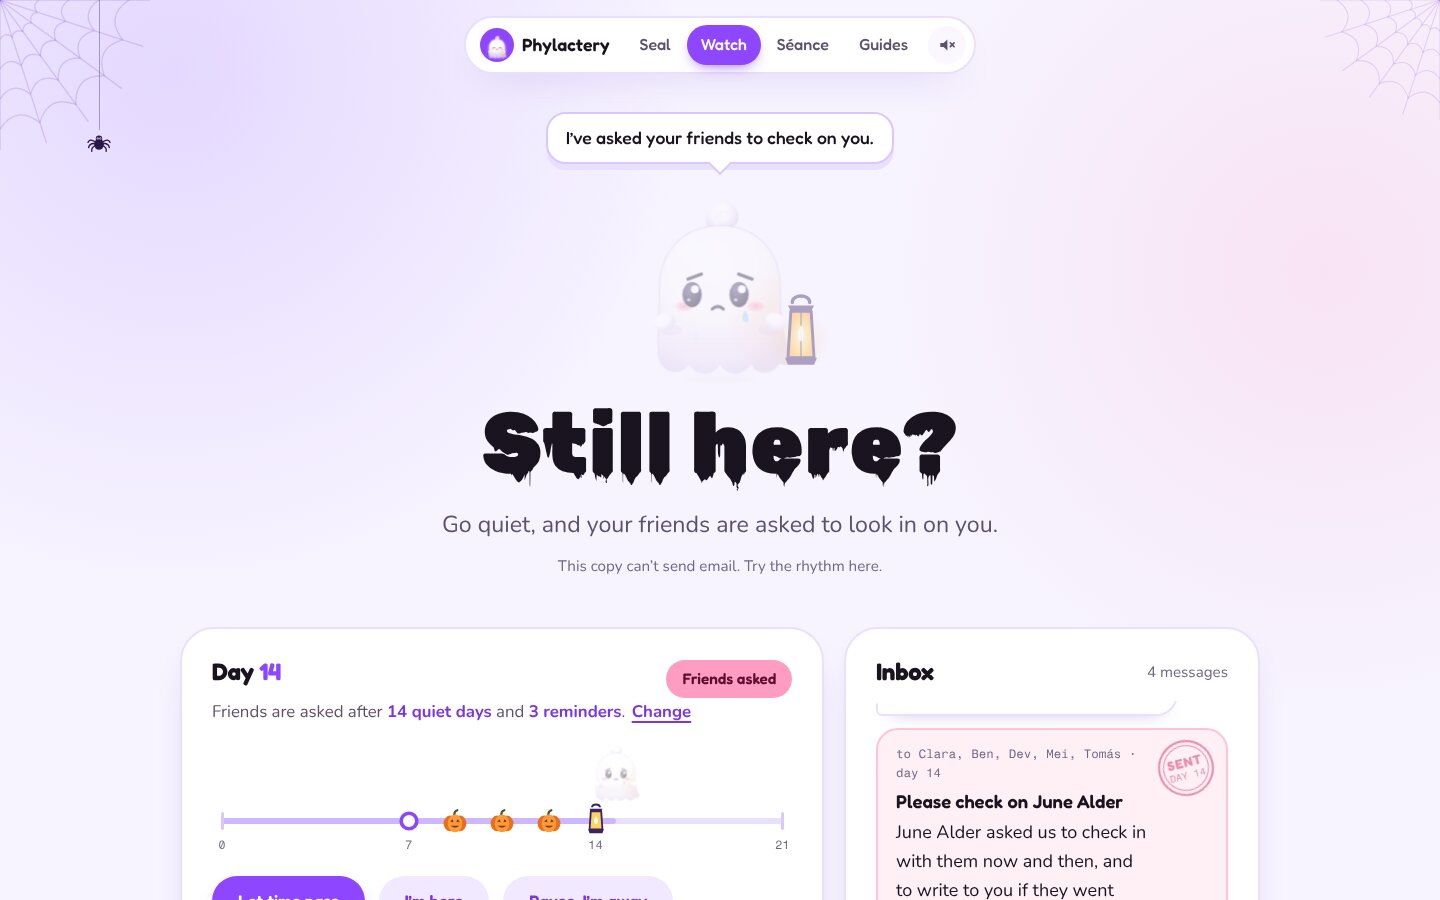
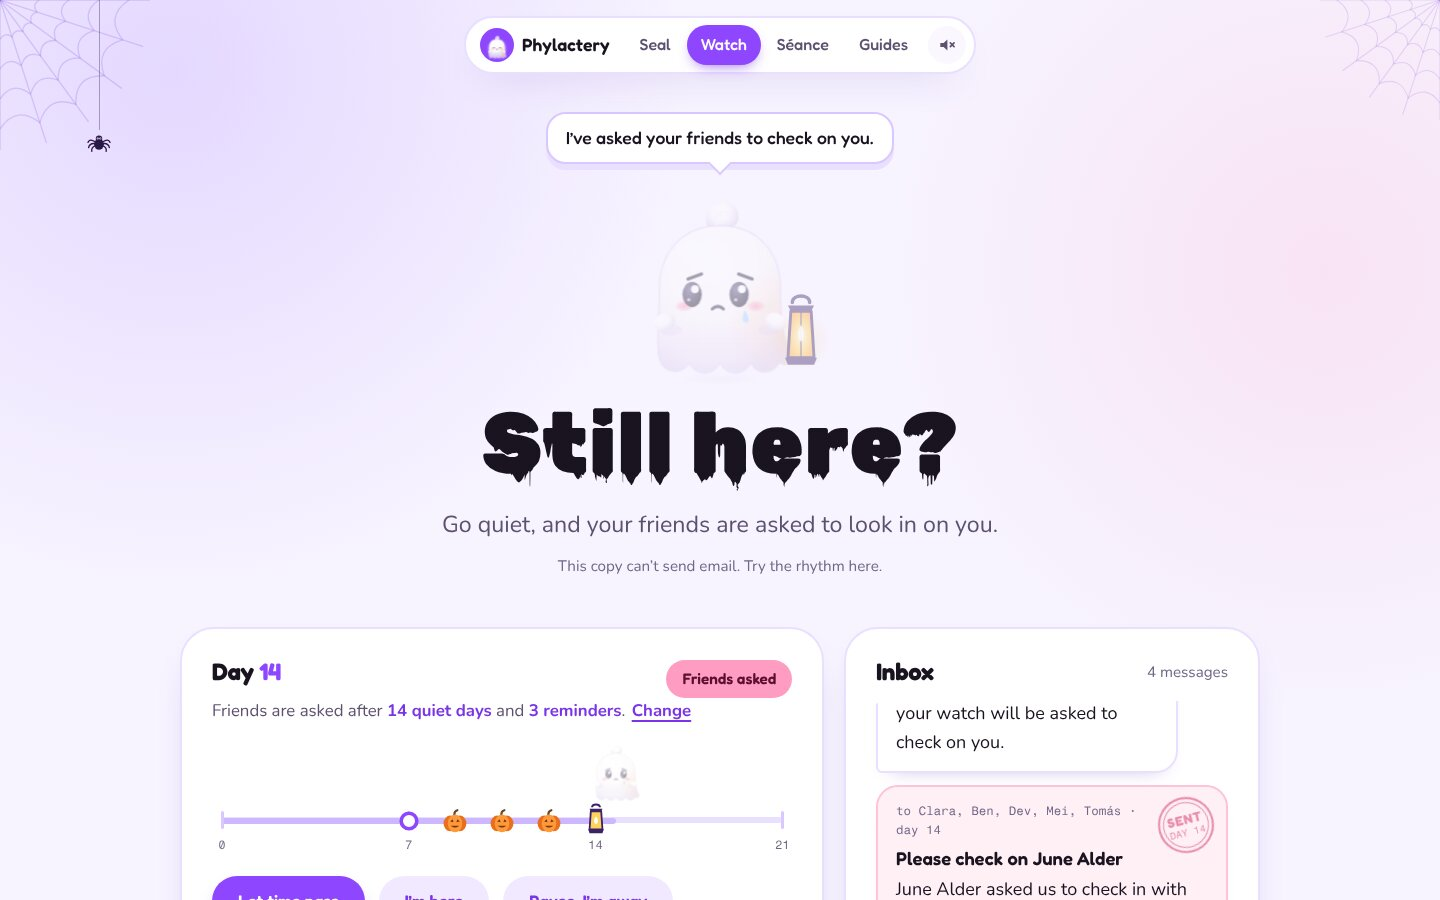
Postmarks float in the corner, so a phone's inbox keeps its full width

Changed region(s): [[0.5938, 0.7778, 0.8438, 0.9956], [0.1562, 0.7778, 0.5, 0.8089]]

diff --git a/src/ui/pages.css b/src/ui/pages.css
@@ -3183,16 +3183,11 @@ body:has(.seance-room) .scenery-moon {
 }
 
 /* Every email the watch sends is postmarked. */
-.msg.to-owner,
-.msg.to-friends {
-  position: relative;
-  padding-right: 78px;
-}
-
+/* The stamp sits in the top corner and the words flow around it. */
 .postmark {
-  position: absolute;
-  top: 10px;
-  right: 12px;
+  float: right;
+  margin: -4px -6px 4px 10px;
+  shape-outside: circle(50%);
   display: grid;
   place-content: center;
   width: 56px;
